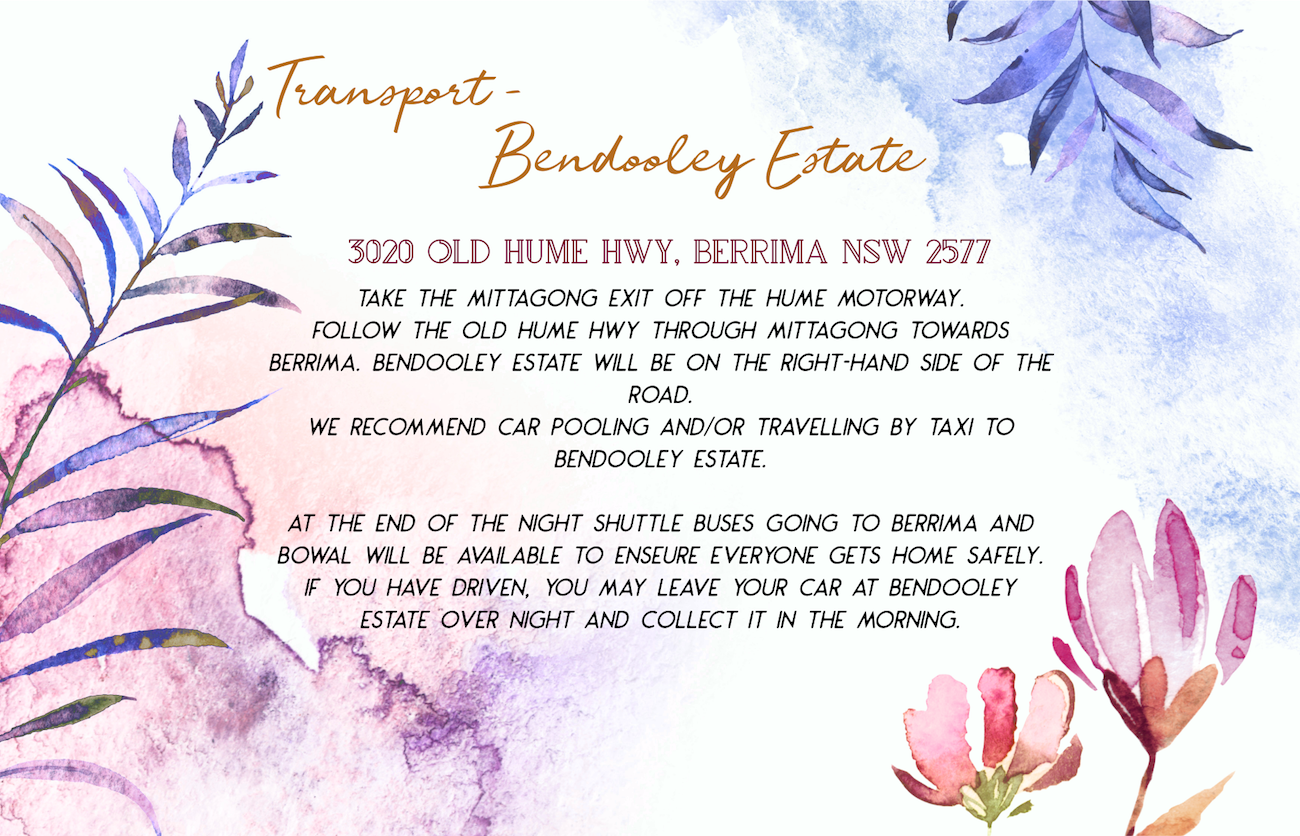
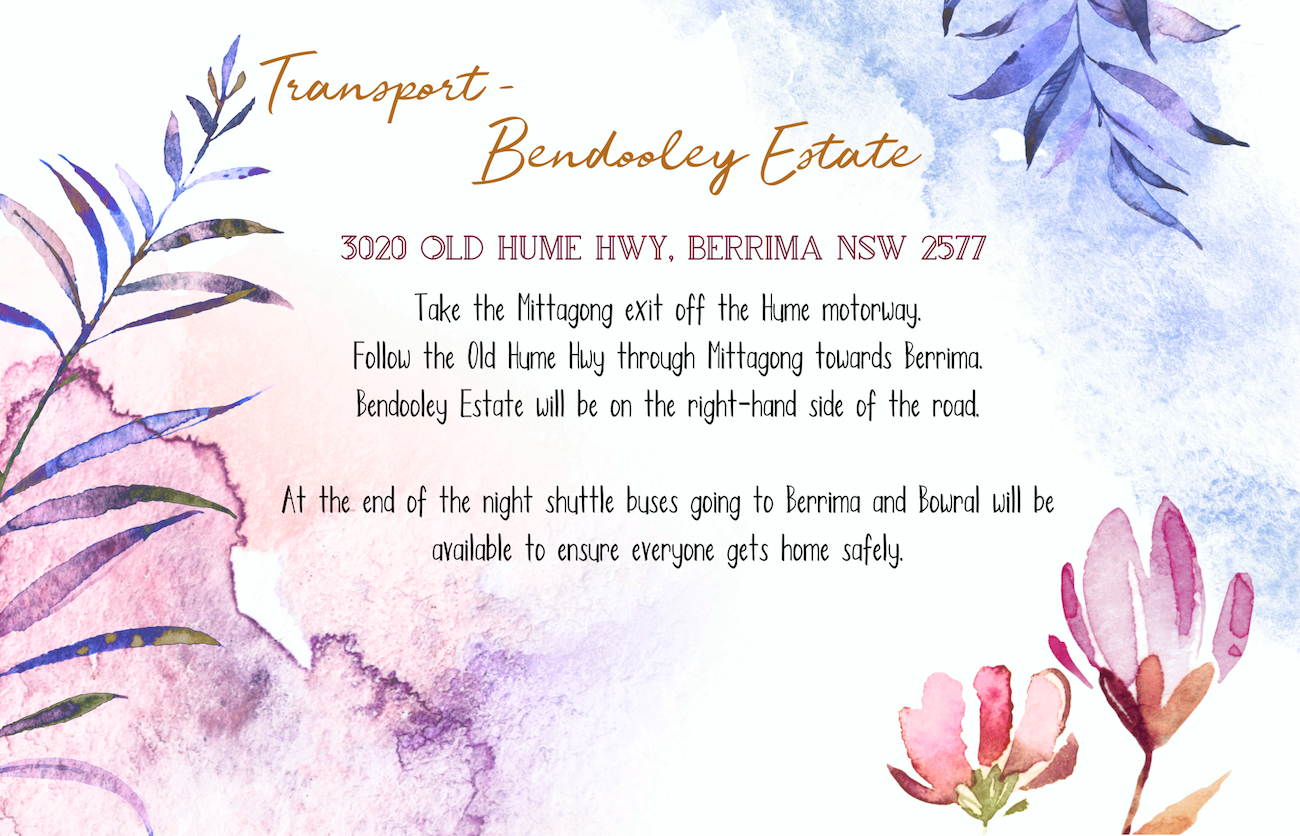
Many text, layout and colour fixes.  Candidate release

diff --git a/static/css/screen.css b/static/css/screen.css
@@ -357,7 +357,7 @@ h1, h2, h3, h4, h5, h6 {
   font-size: 60px;
   font-weight: 300;
   text-align: center;
-  color: rgb(195, 149, 13);
+  color: rgb(185, 162, 94);
   z-index: 2;
 }
 /* line 266, ../sass/screen.scss */
@@ -393,13 +393,15 @@ h1.our-story {
   position: absolute;
   text-align: left;
   font-family: "Limerence";
-  font-size: 350%;
-  color: rgb(195, 149, 13);
+  font-size: 400%;
+  font-weight: bold;
+  color: rgb(185, 162, 94);
   left: 8%;
   top: 10%;
   height: 15%;
   width: 40%;
 }
+
 /* line 291, ../sass/screen.scss */
 #our-story .carousel-inner {
   height: 100%;
@@ -491,7 +493,7 @@ h1.our-story {
   position: absolute;
   font-family: "Limerence";
   font-size: 35px;
-  color: rgb(195, 149, 13);
+  color: rgb(185, 162, 94);
   right: 15%;
   top: 40%;
   height: 15%;
@@ -503,6 +505,19 @@ h1.our-story {
 /* line 703, ../sass/screen.scss */
 #registry {
   height: 836px;
+}
+
+h1.registry {
+  position: absolute;
+  text-align: center;
+  font-family: "Limerence";
+  font-size: 400%;
+  font-weight: bold;
+  color: rgb(185, 162, 94);
+  right: 7%;
+  top: 4%;
+  height: 15%;
+  width: 40%;
 }
 
 /* line 703, ../sass/screen.scss */
@@ -642,7 +657,7 @@ h1.our-story {
   position: absolute;
   font-family: "Limerence";
   font-size: 200%;
-  color: rgb(195, 149, 13);
+  color: rgb(185, 162, 94);
   right: 2%;
   bottom: 2%;
   height: 15%;
@@ -659,6 +674,19 @@ h1.our-story {
   height: 100%;
   width: 100%;
   background: url(../img/bg/backgroundObject6-2.png) no-repeat left top;
+}
+
+h1.thanks {
+  position: absolute;
+  text-align: center;
+  font-family: "Limerence";
+  font-size: 500%;
+  font-weight: bold;
+  color: rgb(185, 162, 94);
+  left: 0%;
+  right: 0%;
+  top: 40%;
+  height: 20%;
 }
 
 /* line 784, ../sass/screen.scss */
@@ -796,7 +824,7 @@ h1.our-story {
 /* line 902, ../sass/screen.scss */
 .carousel-control {
   position: absolute;
-  color: rgb(195, 149, 13);
+  color: rgb(185, 162, 94);
   top: 30%;
   left: 1%;
   margin-top: 0px;

diff --git a/static/index.html b/static/index.html
@@ -75,7 +75,7 @@
             <section id="festivity-details" data-bg="img/bg/backgroundObject2.png">
             </section>
 
-            <section id="weekend-activities" data-bg="img/bg/backgroundObject3.jpg">
+            <section id="weekend-activities" data-bg="img/bg/backgroundObject3.png">
             </section>
 
             <section id="about-berrima" class="carousel slide">
@@ -109,6 +109,7 @@
             </section>
 
             <section id="registry" data-bg="img/bg/backgroundObject5.png">
+                <h1 class="registry">Gift Registry</h1>
             </section>
 
             <section id="add-to-our-story" data-bg="img/bg/backgroundObject7.png">
@@ -210,7 +211,7 @@
                 </div>
 
                 <div class="third">
-
+                    <h1 class="thanks">Thank you</h1>
                 </div>
             </section>
 
